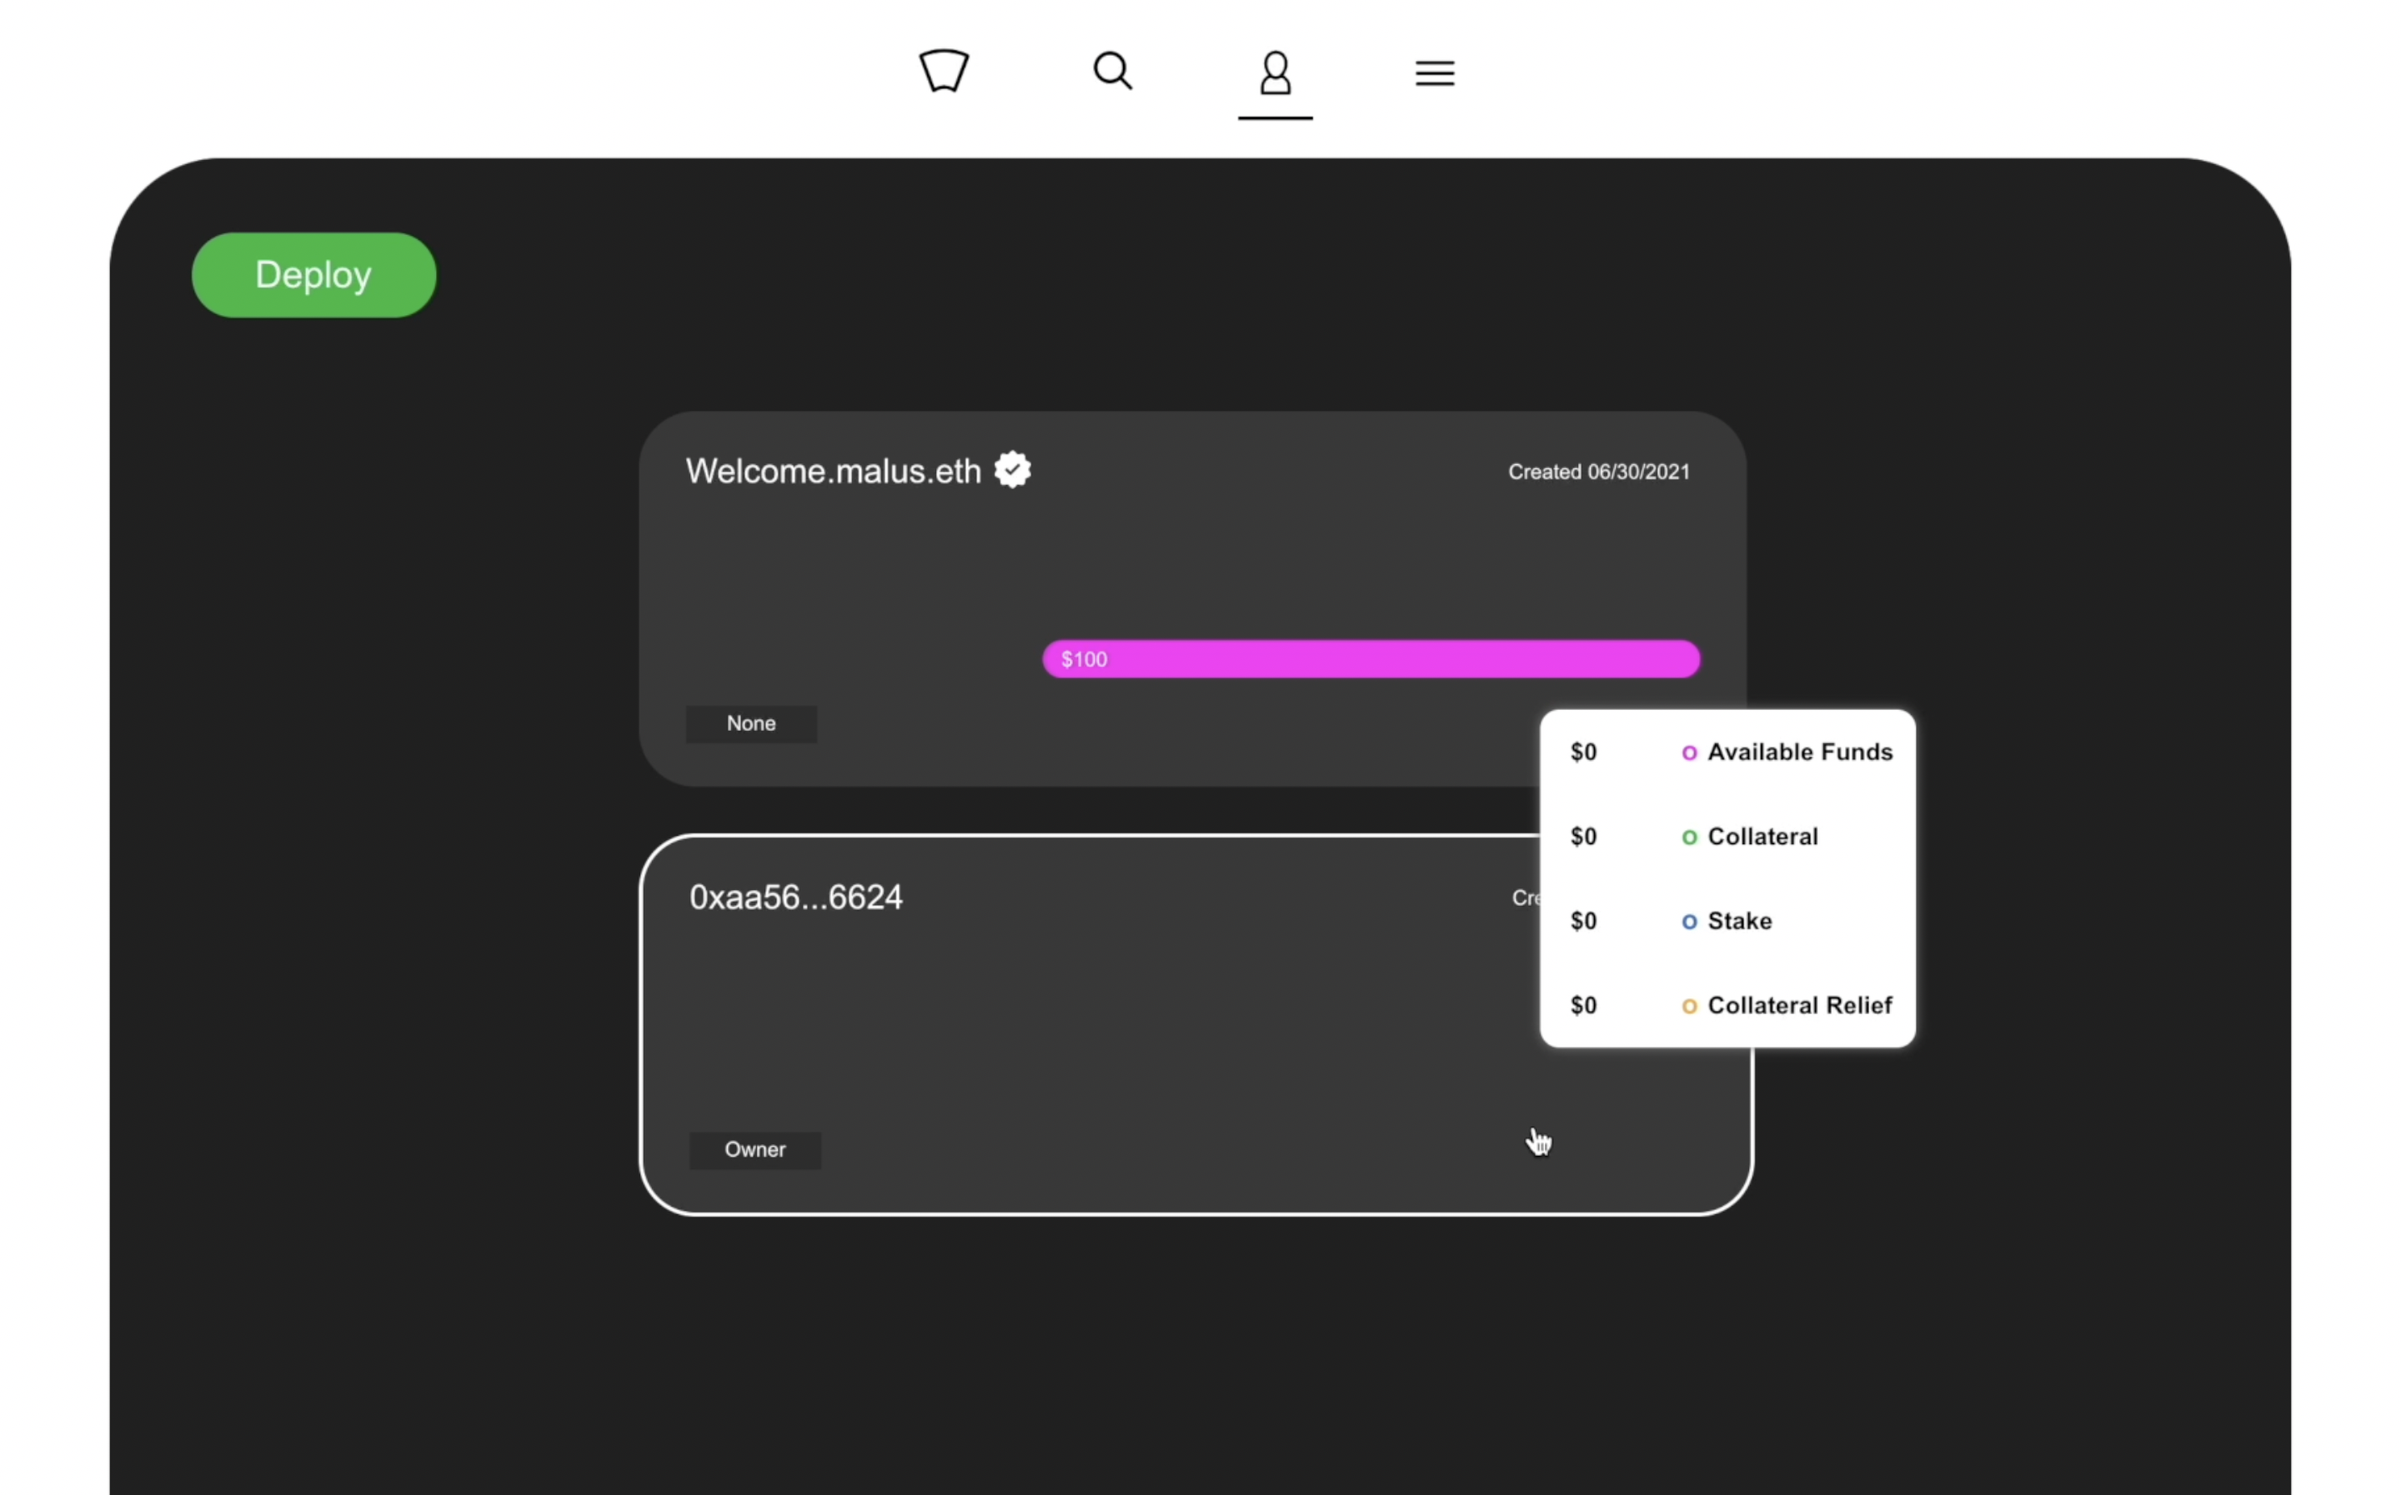
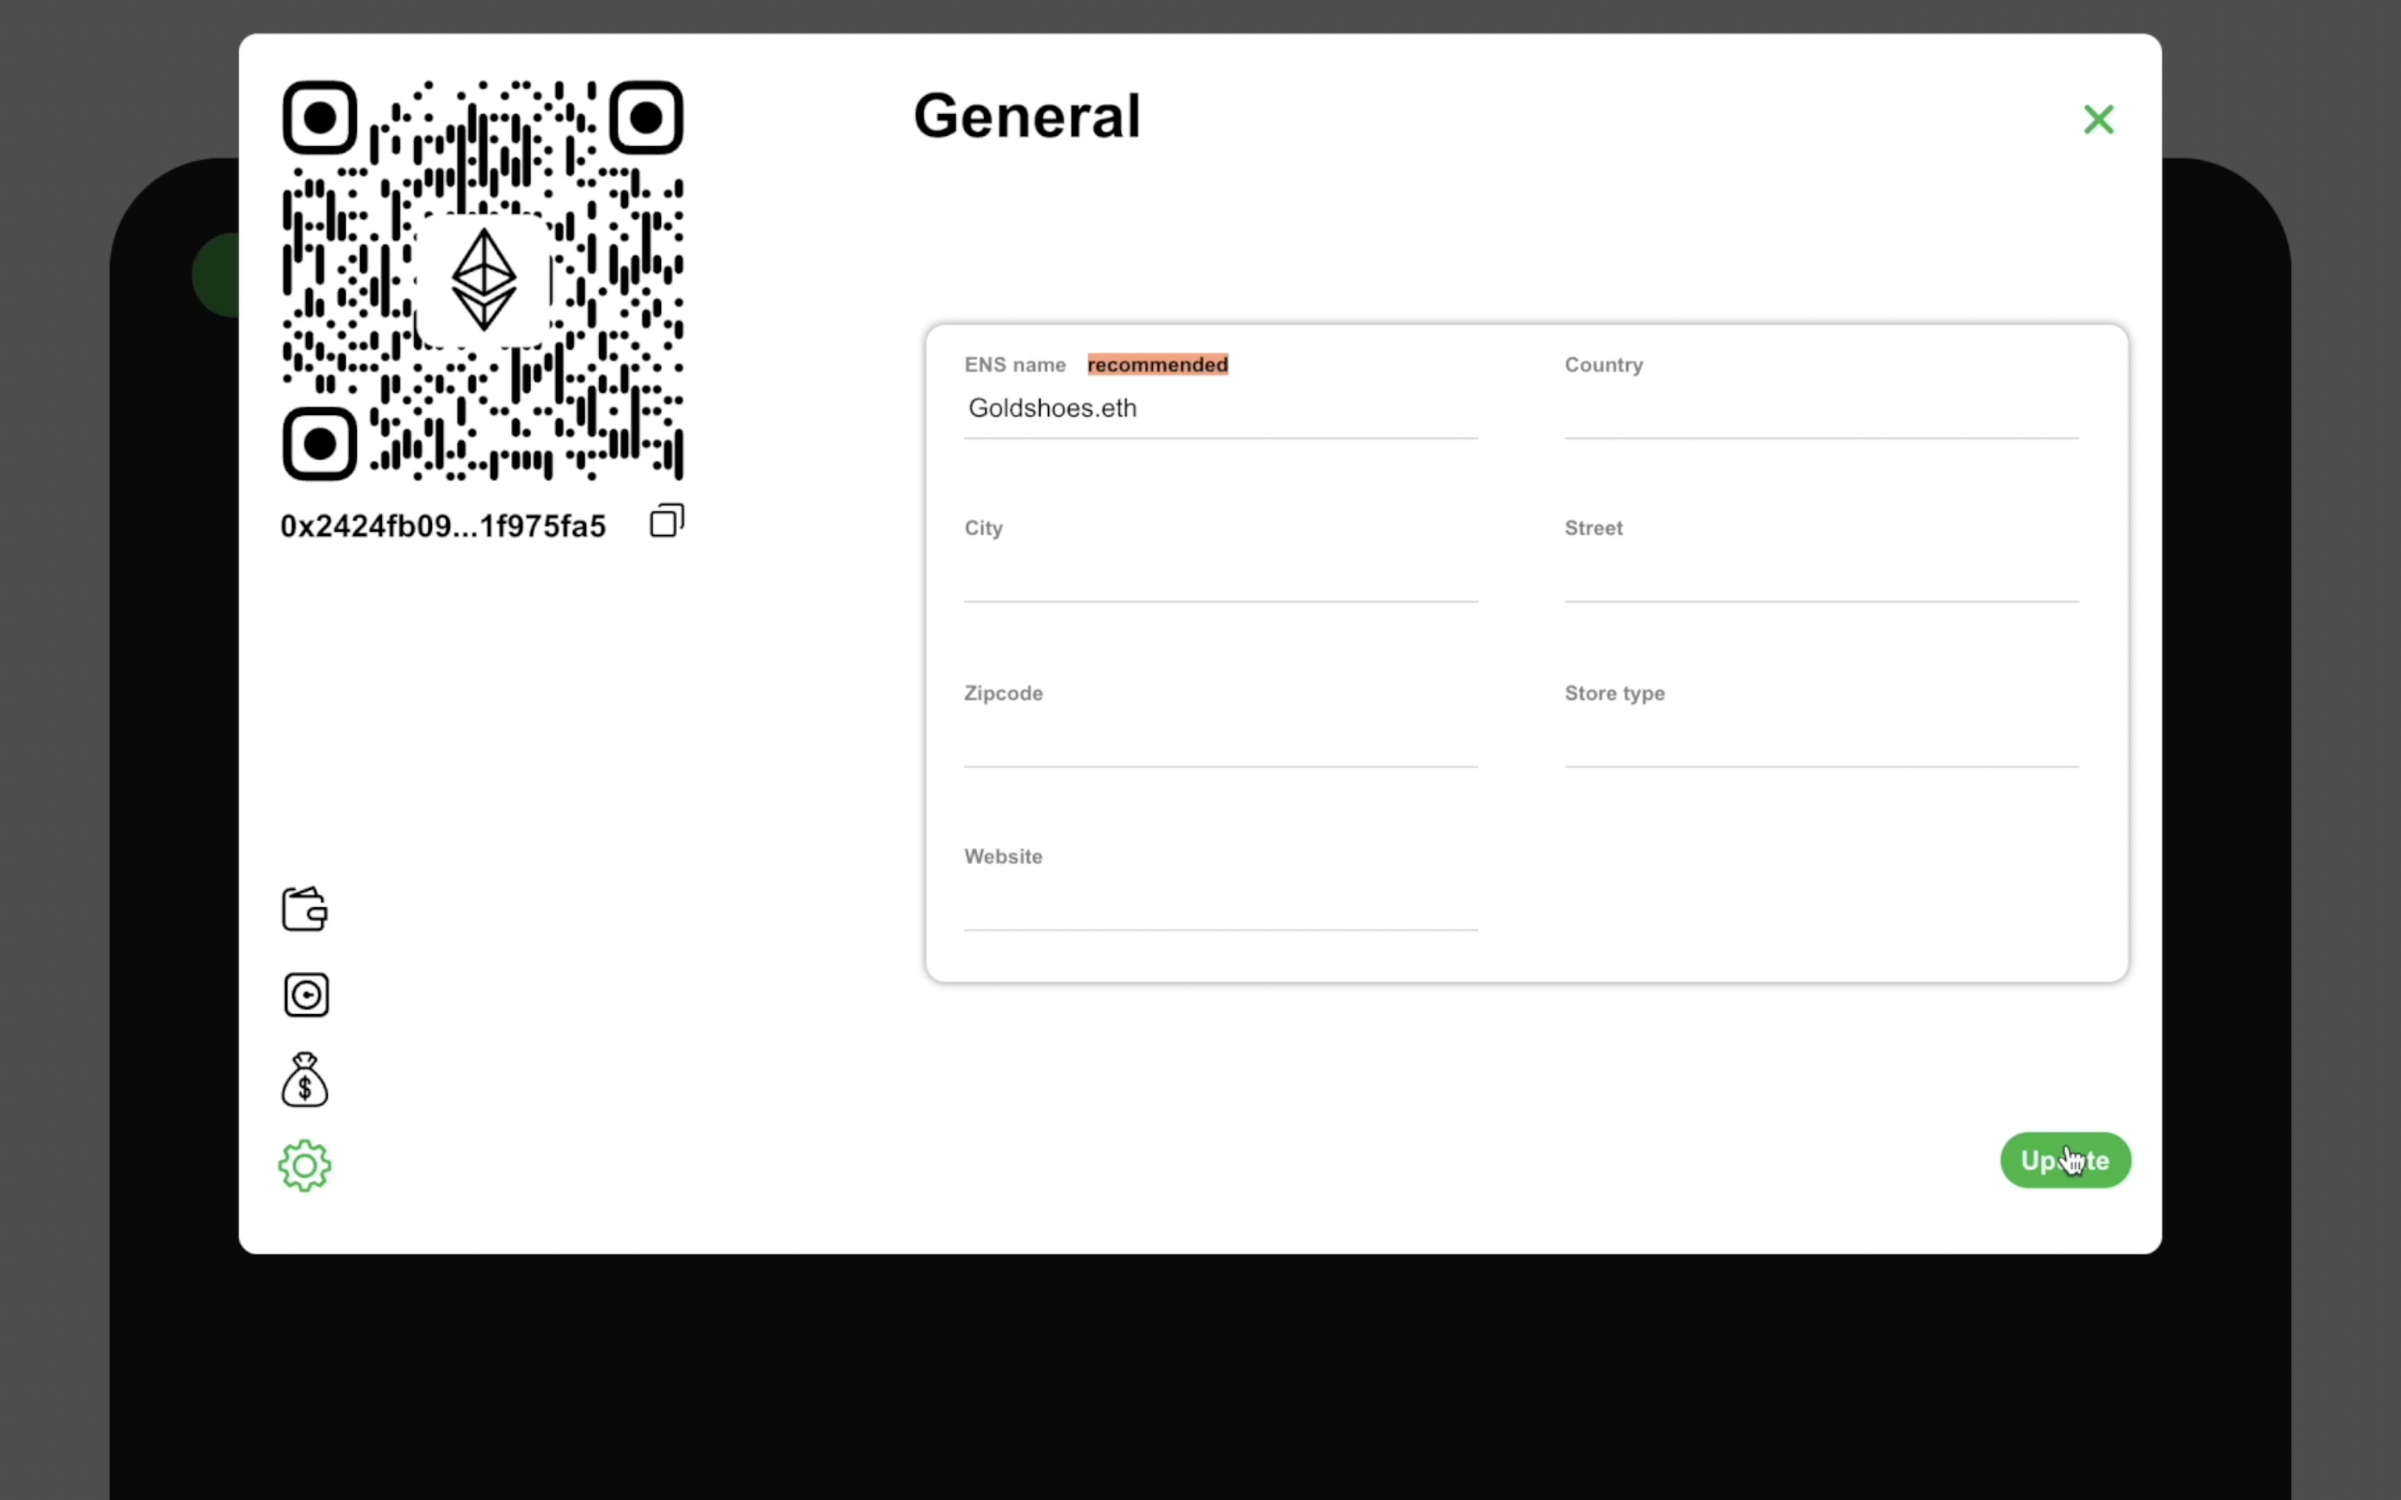
GitBook: [#45] Finished the "Name Stores and Description" page.

diff --git a/README.md b/README.md
@@ -6,7 +6,7 @@ Malus is a decentralized protocol providing 7% peer to peer cashback using stabl
 
 ### How does it work?
 
-When a merchant wants to sell their goods and services, they would stake Aave's aTokens in a store smart contract in a 7:100 ratio for the amount they want to receive. Once payment is received, the merchant's staked aTokens will be locked as collateral in proportion to the amount received. The customer will receive 7% of their purchase in mTokens which can be spent at any store smart contract to unlocked the merchant's collateral. This allows the merchant to still attract customers to their business without giving a discount and gain yield on money that would have been lost.    
+When a merchant wants to sell their goods and services, they would stake Aave's aTokens in a store smart contract in a 7:100 ratio for the amount they want to receive. Once payment is received, the merchant's staked aTokens will be locked as collateral in proportion to the amount received. The customer will receive 7% of their purchase in mTokens which can be spent at any store smart contract to unlocked the merchant's collateral. This allows the merchant to still attract customers to their business without giving a discount and gain yield on money they would have lost.    
 
 ****
 

diff --git a/name-stores-and-description.md b/name-stores-and-description.md
@@ -1,0 +1,35 @@
+# Naming Stores and Description
+
+When running your business, it is recommended to have one dedicated store so users can find your business. You can use information such as an ENS name and other descriptive information. 
+
+{% hint style="info" %}
+We will only cover how to add an ENS name since all other fields are straight forward to fill in. 
+{% endhint %}
+
+
+
+### Step1
+
+Make sure you are in the manage section of the application and click on the store you want to name.
+
+![](<.gitbook/assets/Step1 (1).png>)
+
+
+
+### Step2
+
+Once your store is open, you can just type the ENS name in the correct field and click on update.
+
+{% hint style="warning" %}
+Please note that the ENS name must resolve to the wallet address of the store to be successful. You can resolve the name by copying the wallet address and resolve it at [https://ens.domains/](https://ens.domains)
+{% endhint %}
+
+![](.gitbook/assets/Step2.png)
+
+
+
+### Step3
+
+When the transaction is completed, we can close the store and observe that the name is officially changed.
+
+![](.gitbook/assets/Step3.png)

diff --git a/deploy-stake-and-collect.md b/deploy-stake-and-collect.md
@@ -16,7 +16,7 @@ Make sure you are in the manage section of the application and click the deploy 
 
 Once the store is deployed, we can hover over the store and observe that the available funds, collateral, stake, and collateral relief are all zero. We can proceed to click on the store. 
 
-![](.gitbook/assets/Step2.png)
+![](<.gitbook/assets/Step2 (1).png>)
 
 
 
@@ -24,7 +24,7 @@ Once the store is deployed, we can hover over the store and observe that the ava
 
 Since this store has no money inside of it, we need to copy the wallet address which can be found under the qrcode. 
 
-![](.gitbook/assets/Step3.png)
+![](<.gitbook/assets/Step3 (1).png>)
 
 
 

diff --git a/SUMMARY.md b/SUMMARY.md
@@ -3,7 +3,7 @@
 * [Introduction](README.md)
 * [Filter and Pay](filter-and-pay.md)
 * [Deploy, Stake, and Collect](deploy-stake-and-collect.md)
-* [Naming Stores and Metadata](name-stores.md)
+* [Naming Stores and Description](name-stores-and-description.md)
 * [Glossary](glossary.md)
 * [FAQ](faq.md)
 
@@ -12,4 +12,3 @@
 * [Protocol Overview](developers/protocol-overview.md)
 * [Extensions](developers/extensions.md)
 * [Subgraph](developers/subgraph.md)
-
